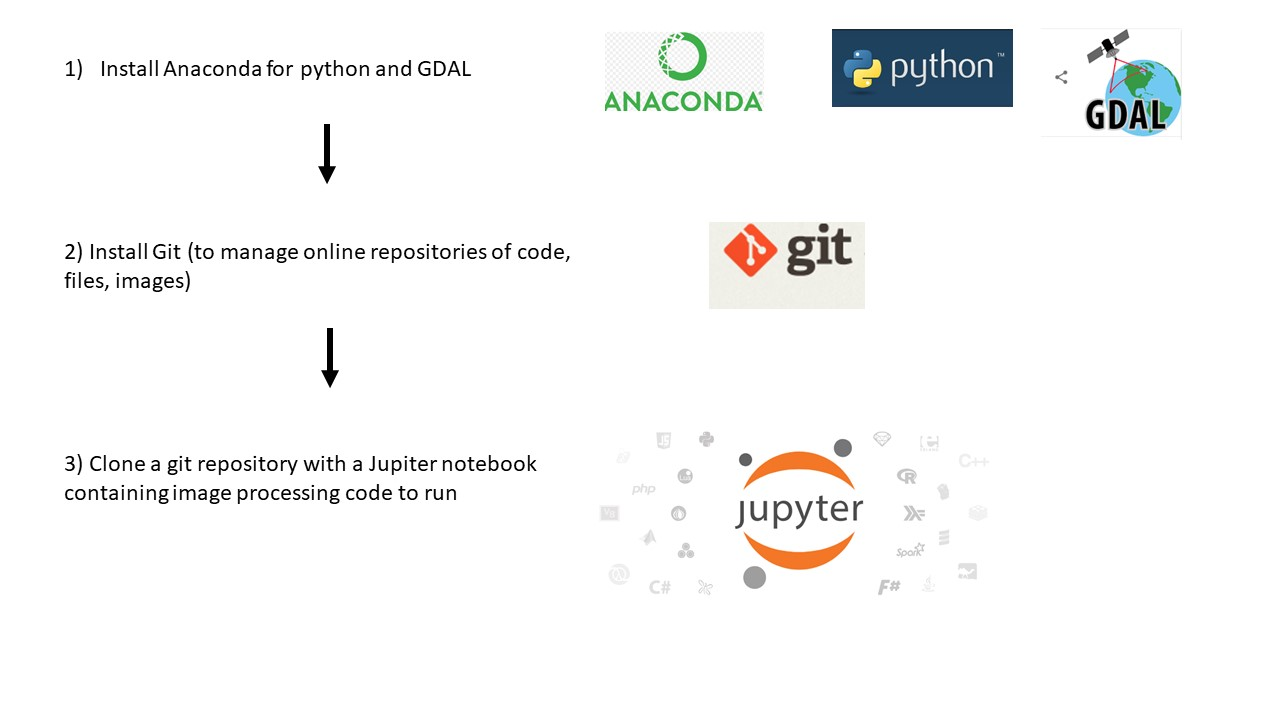
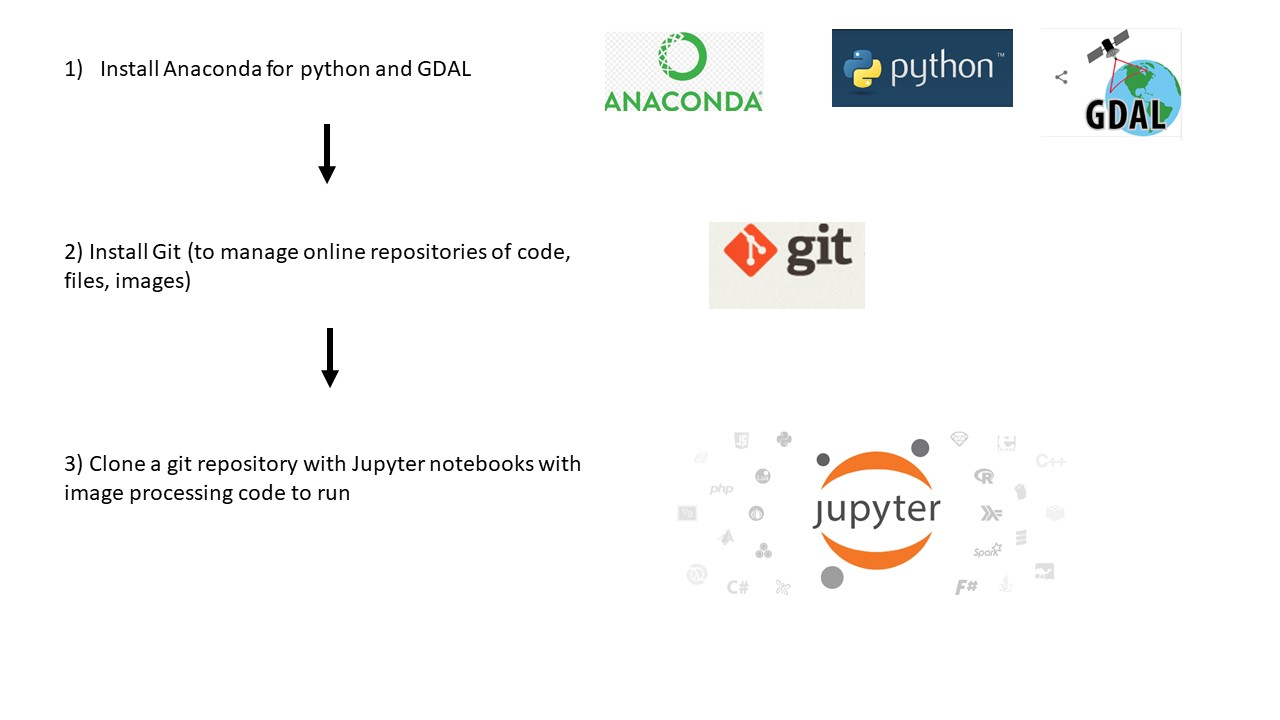
flowchart modified

diff --git a/1. Setting GDAL with Anaconda.md b/1. Setting GDAL with Anaconda.md
@@ -1,12 +1,10 @@
-### The first steps will be:
- 1) Install Anaconda (python distribution) and GDAL 
- 2) Clone a git repository with the introductory jupiter notebook [(see it here)](https://github.com/RSRCsupport/Image_Processing/blob/master/1_Intro_notebook.ipynb) and run it in your Anaconda environment. 
-
+### The first steps are summarized in the following flowchart:
+ 
 ![flowchart](https://github.com/RSRCsupport/Image_Processing/blob/master/Data/Flowchart_settings.jpg)
 
 Fig. 1. A flowchart showing steps to setup Jupyter notebooks in your PC
 
-#### 1) Install Anaconda (python distribution) and GDAL 
+#### 1) Install Anaconda for python and GDAL 
 
 a) Download [Anaconda](https://www.anaconda.com/download/): it comes with 
 a nice suit of Python programming language packages. Install the 64-Bit version 
@@ -29,9 +27,20 @@ You will be prompted to say yes to complete the installation. This process works
 when no proxy is limiting the GDAL software installation, if this is the case send me an email to rodbio2008@gmail.com to find a solution
 The purpose of installing GDAL within Anaconda is to have this library available 
 (i.e. to import it) in the Jupyter notebooks that contain the code for these tutorials
-#### 2) Clone a Jupiter Notebook to your local drive and open it in Anaconda
 
-a) To clone a git repository (i.e. have a local copy of code, files that change over time in your PC) you need to install first [git.exe](https://git-scm.com/downloads) and an Integrated Development Environment (IDE) that will enable you to  
+#### 2) Install Git to manage online repositories
+
+Download [Git](https://git-scm.com/downloads) for windows: Once you install git you will be able to clone (i.e. download) 
+the Jupyter notebooks included in these tutorials. Install the 64-bit .exe. After the installation you will have three
+options to interact with git: 1) a Windows' based Graphical User Interface (Git GUI), 2) A windows Command Line Interface (Git CMD)
+and 3) a bash (linux based Command Line Interface) which is strongly recommended and followed in these tutorials for students to be 
+exposed to the Linux operating system. 
+
+
+#### 3) Clone a git repository with Jupyter notebooks with image processing code to run
+
+
+To clone a git repository (i.e. have a local copy of code, files that change over time in your PC) you need to install first [git.exe](https://git-scm.com/downloads) and an Integrated Development Environment (IDE) that will enable you to  
  
 > Instructions here how to clone with PyCharm? and how to open the notebook once you get it in your local drive
 > Once you have cloned your repository, change directory to where the Jupyter notebooks are located in the repository folder (e.g., the notebooks directory) and start Jupyter with the jupyter notebook command.
@@ -56,3 +65,5 @@ remote: Counting objects: 89, done.
 remote: Compressing objects: 100% (66/66), done.
 remote: Total 89 (delta 44), reused 63 (delta 21), pack-reused 0
 Unpacking objects: 100% (89/89), done.
+
+Run the a repo like this one :[(see it here)](https://github.com/RSRCsupport/Image_Processing/blob/master/1_Intro_notebook.ipynb) 
